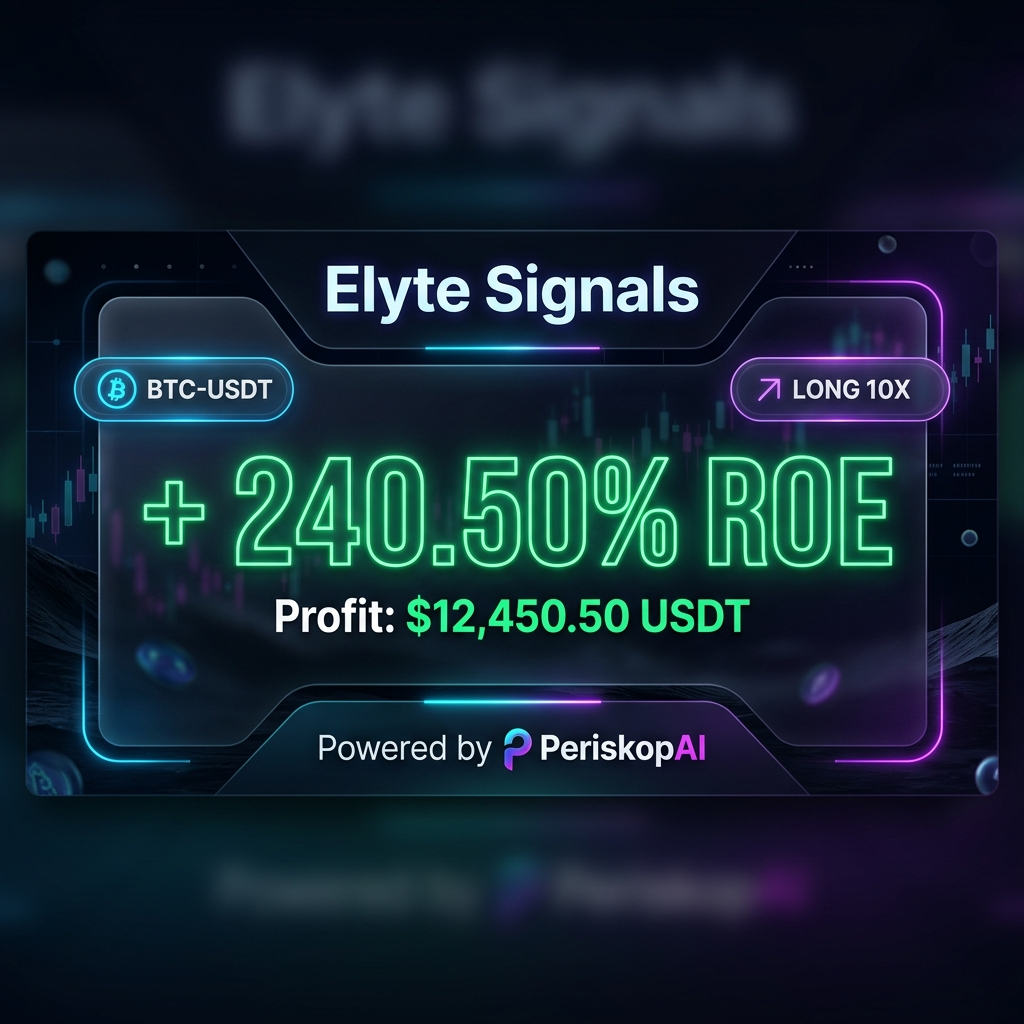
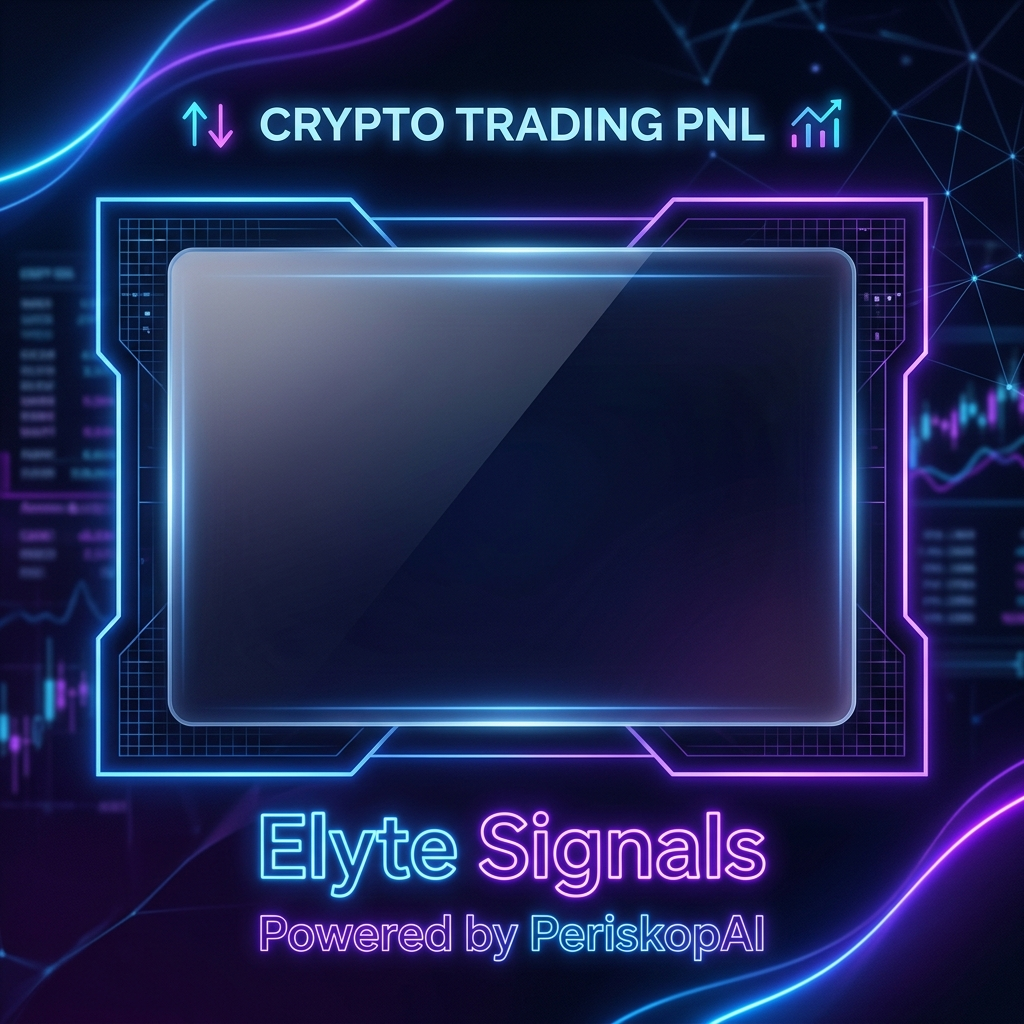
Auto-Memory Sync & Manifesto Update: Thu Apr  9 13:57:00 +03 2026

diff --git a/pnl-generator.js b/pnl-generator.js
@@ -25,12 +25,9 @@ async function generatePnlImage(symbol, side, pnlPercentage, netUsdProfit, isWin
         // Sadece yazi kismini (ortadaki maskeleme alanini) donduren SVG sarmalayıcısı
         const svgOverlay = `
         <svg width="1024" height="1024" xmlns="http://www.w3.org/2000/svg">
-            <!-- Orjinal metni tamamen maskeleyen glass/kutu efekti. Parlak distan etkilenmez. -->
-            <rect x="100" y="270" width="824" height="420" rx="20" fill="rgba(10, 14, 25, 0.95)" stroke="transparent" />
-
             <!-- Ust İsimler (Sembol & Yön) -->
             <text x="512" y="380" font-family="system-ui, -apple-system, sans-serif" font-weight="700" font-size="34" fill="#A0AEC0" text-anchor="middle" letter-spacing="3">
-                \${symbolStr}   •   \${side}
+                ${symbolStr}   •   ${side}
             </text>
 
             <!-- Devasa ROE -->
